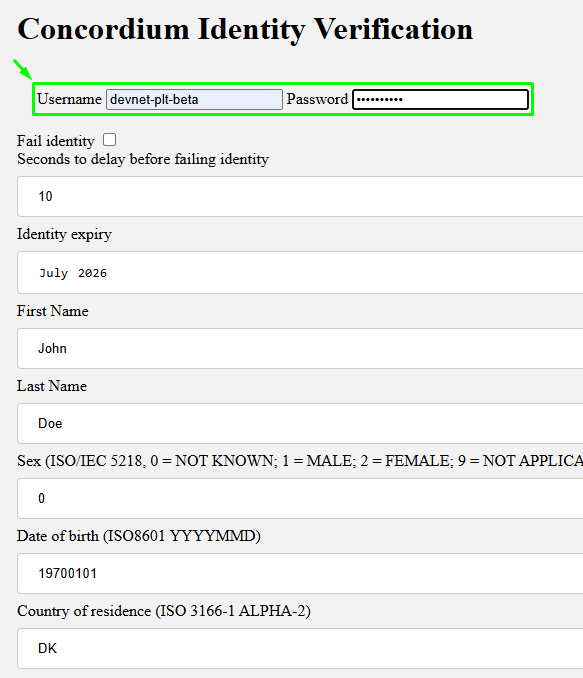
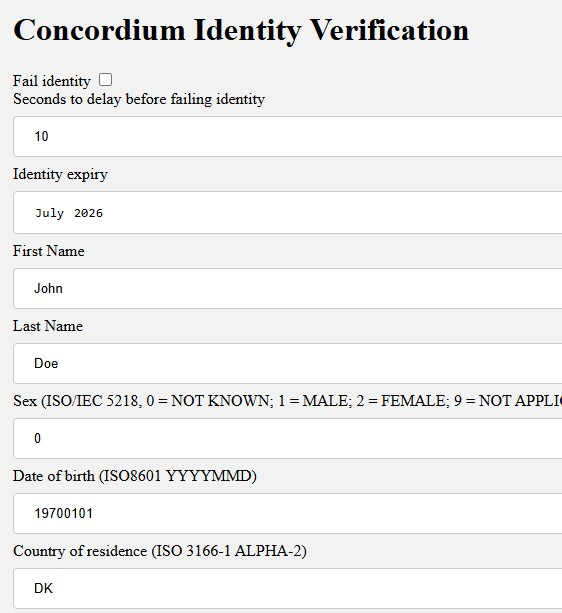
updated-devnet-onboarding-process

diff --git a/source/mainnet/docs/plt/setup-guide/identity-creation.rst b/source/mainnet/docs/plt/setup-guide/identity-creation.rst
@@ -29,9 +29,8 @@ After :ref:`connecting to DevNet <plt-devnet-connection>`, follow these steps to
 4. Complete identity verification:
 
    - You'll be redirected to a Testnet-style ID page
-   - Use the following credentials:
-     - Username: ``devnet-plt-beta``
-     - Password: ``peachy2025``
+   - You can specify custom details for your identity
+   - Click **Submit** to complete DevNet identity verification process
 
    .. image:: Images/identity-verification.png
       :alt: completing identity verification
